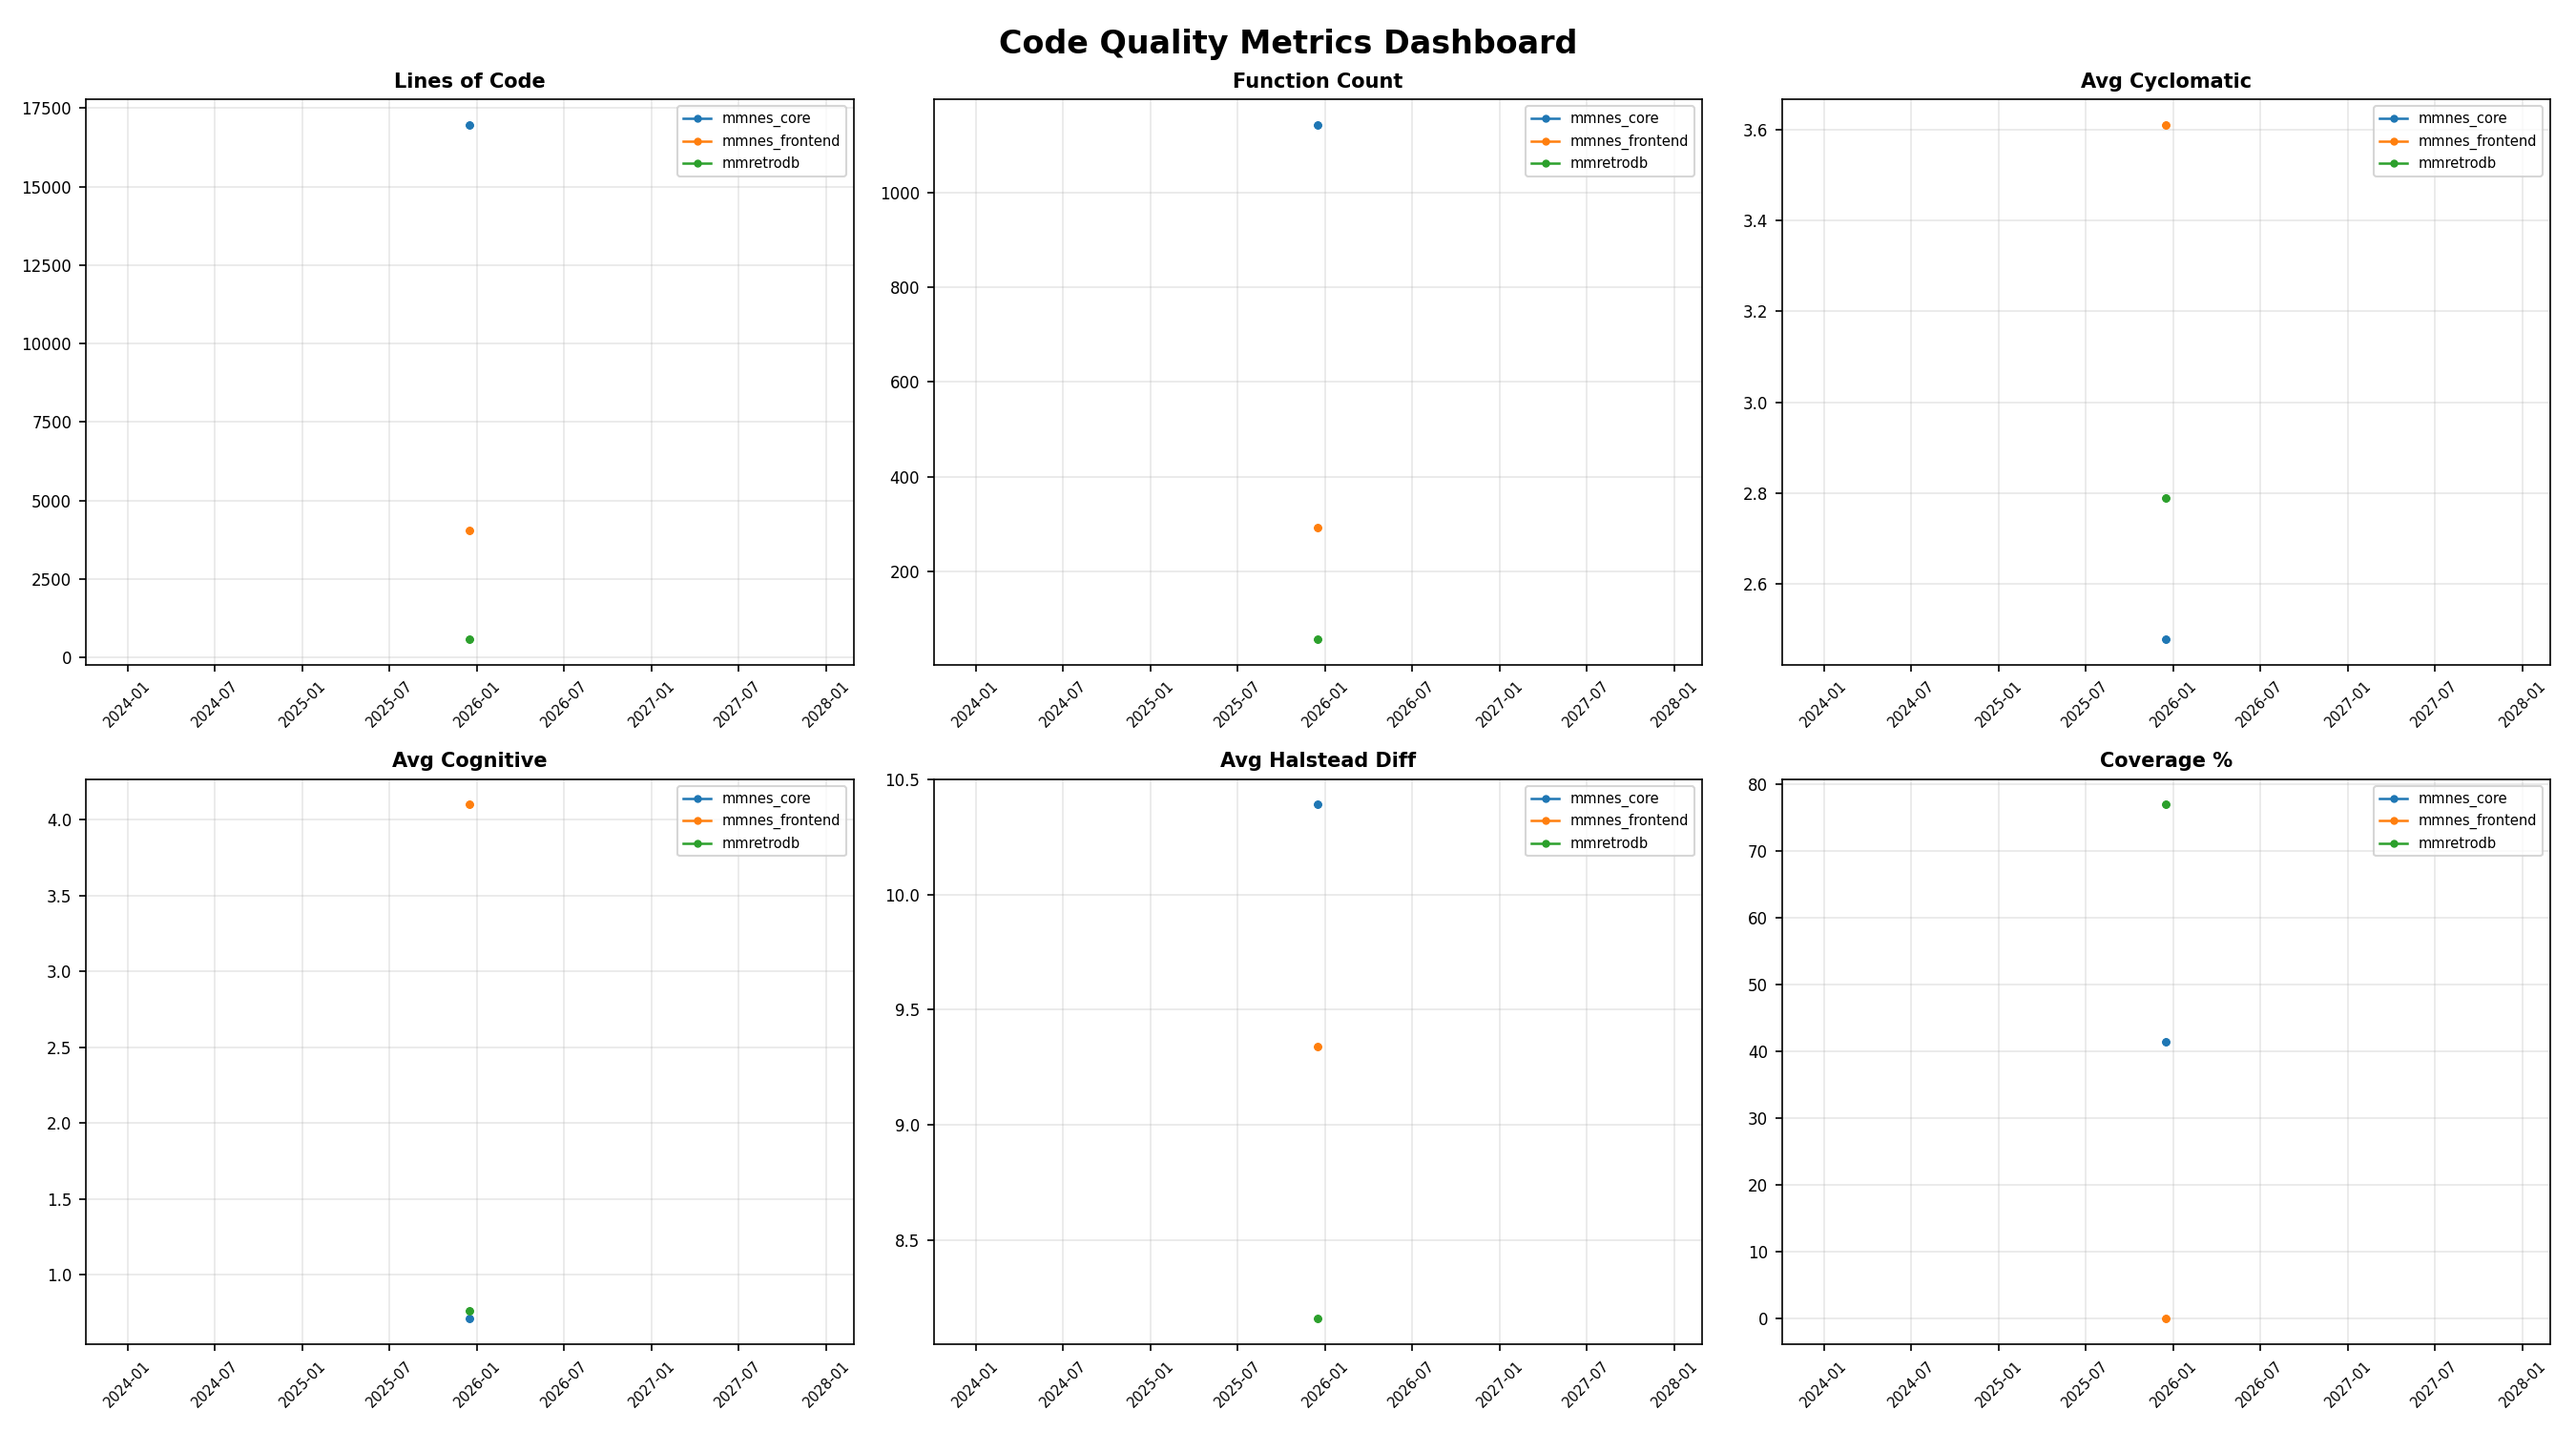
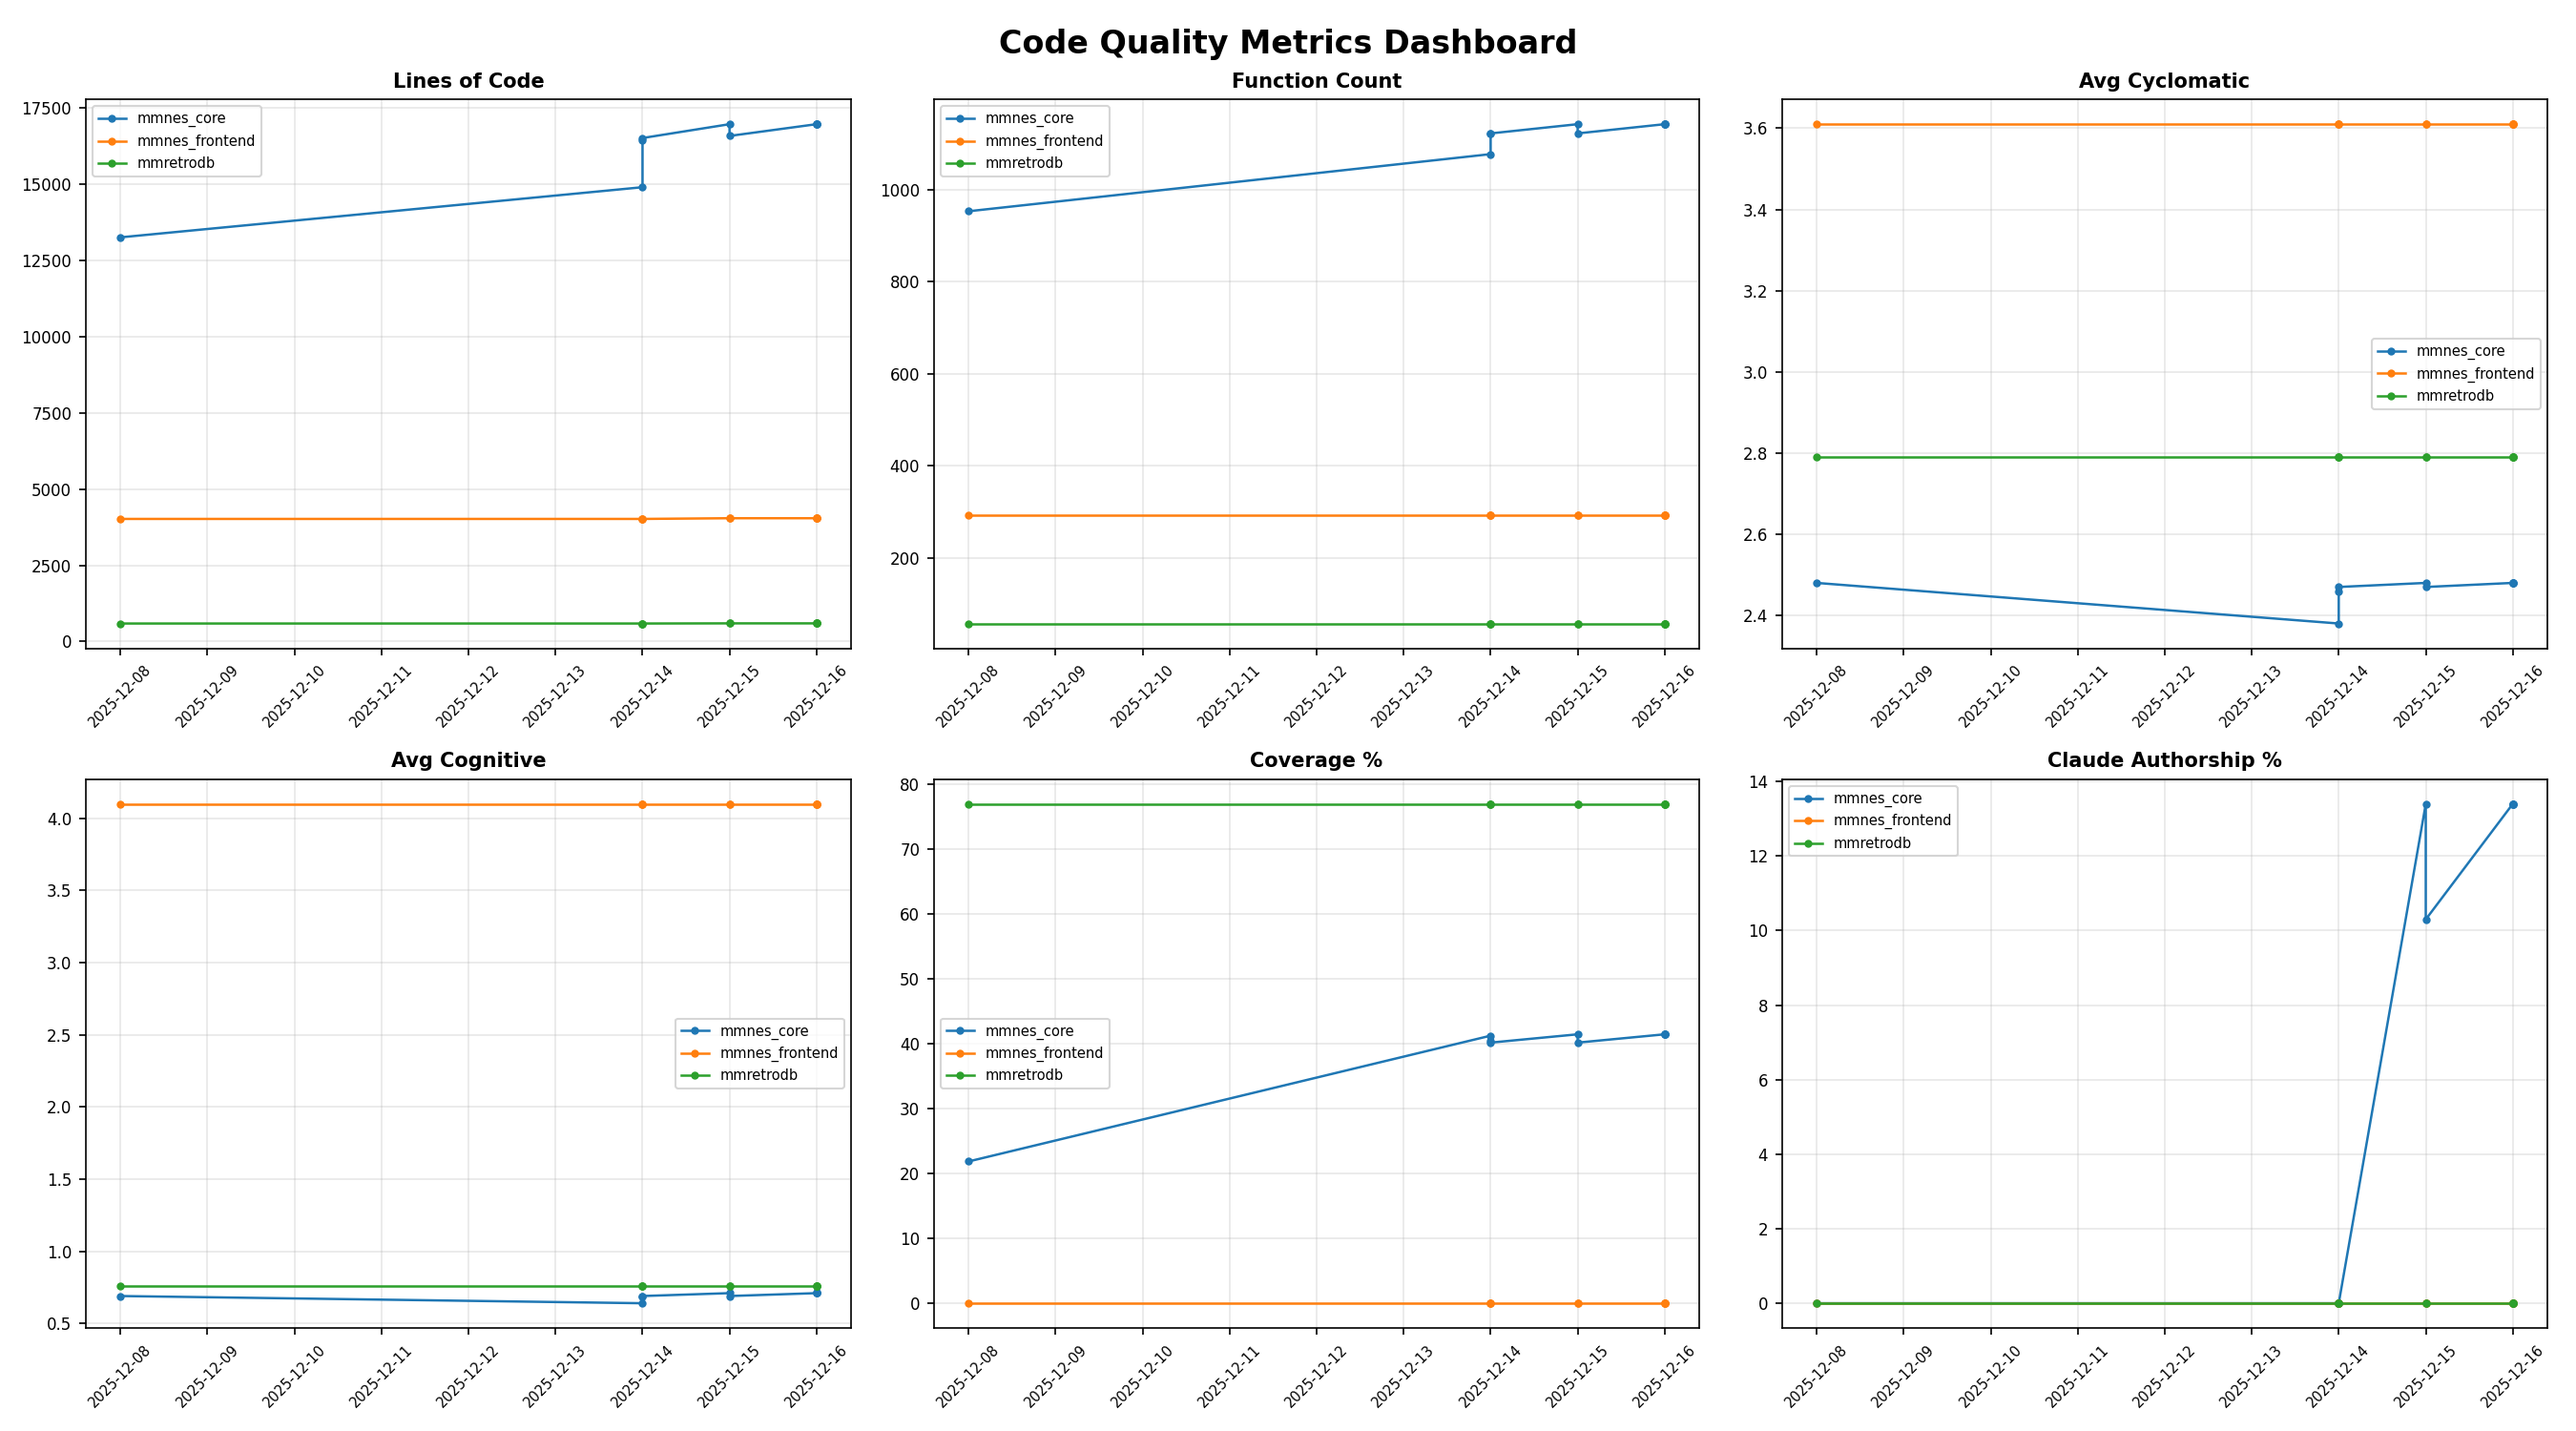
Add authorship tracking (Human % vs Claude %) to metrics
- Parses "// Authorship: Human X% | Claude Y%" headers from source files
- Calculates LOC-weighted authorship percentages per crate
- Adds human_percent/claude_percent columns to CSV
- Updates dashboard to show Claude Authorship % trend chart
- Updates METRICS_SUMMARY.md to show authorship breakdown

Regenerated historical metrics for last 10 commits showing:
- mmnes_core: 86.6% Human, 13.4% Claude (as of latest commit)
- mmnes_frontend: 100% Human (no Claude contributions yet)
- mmretrodb: 100% Human (no Claude contributions yet)

🤖 Generated with [Claude Code](https://claude.com/claude-code)

diff --git a/metrics/collect_metrics.py b/metrics/collect_metrics.py
@@ -67,6 +67,19 @@ class CrateMetrics:
     coverage_percent: float = 0.0
     covered_lines: int = 0
     total_lines: int = 0
+    # Authorship tracking (LOC-weighted)
+    human_loc: int = 0      # LOC attributed to human
+    claude_loc: int = 0     # LOC attributed to Claude
+
+    @property
+    def human_percent(self) -> float:
+        total = self.human_loc + self.claude_loc
+        return (self.human_loc / total * 100) if total > 0 else 100.0
+
+    @property
+    def claude_percent(self) -> float:
+        total = self.human_loc + self.claude_loc
+        return (self.claude_loc / total * 100) if total > 0 else 0.0
 
     @property
     def avg_cyclomatic(self) -> float:
@@ -116,13 +129,80 @@ def file_belongs_to_crate(file_path: str, crate_name: str) -> bool:
         normalized.endswith(f"/{crate_name}")       # Edge case: path ends with crate
     )
 
+
+import re
+
+def parse_authorship(file_path: Path) -> tuple:
+    """Parse authorship header from a source file.
+
+    Looks for pattern: // Authorship: Human X% | Claude Y%
+    Also supports: # Authorship: Human X% | Claude Y% (for Python files)
+
+    Returns (human_percent, claude_percent) or (100, 0) if no header found.
+    """
+    try:
+        with open(file_path, 'r', encoding='utf-8', errors='ignore') as f:
+            # Read first 10 lines to find authorship header
+            for _ in range(10):
+                line = f.readline()
+                if not line:
+                    break
+
+                # Match pattern: Authorship: Human X% | Claude Y%
+                match = re.search(
+                    r'Authorship:\s*Human\s+(\d+(?:\.\d+)?)\s*%\s*\|\s*Claude\s+(\d+(?:\.\d+)?)\s*%',
+                    line,
+                    re.IGNORECASE
+                )
+                if match:
+                    human = float(match.group(1))
+                    claude = float(match.group(2))
+                    return (human, claude)
+    except (IOError, OSError):
+        pass
+
+    # Default: assume 100% human if no header found
+    return (100.0, 0.0)
+
+
+def collect_authorship(workspace: Path, crate_name: str) -> tuple:
+    """Collect authorship stats for all source files in a crate.
+
+    Returns (total_human_loc, total_claude_loc) weighted by LOC.
+    """
+    crate_src = workspace / crate_name / "src"
+    if not crate_src.exists():
+        return (0, 0)
+
+    total_human_loc = 0
+    total_claude_loc = 0
+
+    for rs_file in crate_src.rglob("*.rs"):
+        # Count lines in file
+        try:
+            with open(rs_file, 'r', encoding='utf-8', errors='ignore') as f:
+                loc = sum(1 for line in f if line.strip())
+        except (IOError, OSError):
+            continue
+
+        # Get authorship percentages
+        human_pct, claude_pct = parse_authorship(rs_file)
+
+        # Weight by LOC
+        total_human_loc += int(loc * human_pct / 100)
+        total_claude_loc += int(loc * claude_pct / 100)
+
+    return (total_human_loc, total_claude_loc)
+
+
 # CSV column definitions
 CSV_FIELDNAMES = [
     "timestamp", "commit_date", "commit_hash", "commit_short", "branch", "crate_name",
     "loc_total", "loc_code", "loc_comments", "loc_blanks",
     "functions_count", "avg_cyclomatic", "max_cyclomatic",
     "avg_cognitive", "max_cognitive", "avg_halstead_diff", "max_halstead_diff",
-    "coverage_percent", "covered_lines", "total_lines"
+    "coverage_percent", "covered_lines", "total_lines",
+    "human_percent", "claude_percent"
 ]
 
 
@@ -510,6 +590,11 @@ def collect_all_metrics(workspace_root: Path, with_coverage: bool = False) -> Li
                 (cov["covered"] / cov["total"] * 100) if cov["total"] > 0 else 0.0
             )
 
+        # Collect authorship data
+        human_loc, claude_loc = collect_authorship(workspace_root, crate_name)
+        metrics.human_loc = human_loc
+        metrics.claude_loc = claude_loc
+
         all_metrics.append(metrics)
 
     return all_metrics
@@ -556,6 +641,8 @@ def write_csv(metrics_list: List[CrateMetrics], git_info: Dict[str, str]):
                     "coverage_percent": round(m.coverage_percent, 2),
                     "covered_lines": m.covered_lines,
                     "total_lines": m.total_lines,
+                    "human_percent": round(m.human_percent, 1),
+                    "claude_percent": round(m.claude_percent, 1),
                 })
         finally:
             unlock_file(f)
@@ -580,6 +667,7 @@ def print_summary(metrics_list: List[CrateMetrics]):
             print(f"  Coverage: {m.coverage_percent:.1f}% ({m.covered_lines}/{m.total_lines} lines)")
         else:
             print(f"  Coverage: N/A (not collected)")
+        print(f"  Authorship: Human {m.human_percent:.1f}% | Claude {m.claude_percent:.1f}%")
 
     print("\n" + "=" * 70)
 

diff --git a/metrics/plot_metrics.py b/metrics/plot_metrics.py
@@ -239,8 +239,8 @@ def plot_combined_dashboard(df: pd.DataFrame, output_path: Path):
         ("functions_count", "Function Count", axes[0, 1]),
         ("avg_cyclomatic", "Avg Cyclomatic", axes[0, 2]),
         ("avg_cognitive", "Avg Cognitive", axes[1, 0]),
-        ("avg_halstead_diff", "Avg Halstead Diff", axes[1, 1]),
-        ("coverage_percent", "Coverage %", axes[1, 2]),
+        ("coverage_percent", "Coverage %", axes[1, 1]),
+        ("claude_percent", "Claude Authorship %", axes[1, 2]),
     ]
 
     for metric_col, title, ax in plots:
@@ -295,22 +295,24 @@ def generate_latest_summary(df: pd.DataFrame, output_path: Path):
         f.write(f"**Latest commit:** `{commit}` on `{branch}`\n\n")
 
         f.write("## Per-Crate Metrics\n\n")
-        f.write("| Crate | LOC | Functions | Avg Cyclo | Max Cyclo | Avg Cog | Max Cog | Coverage |\n")
-        f.write("|-------|-----|-----------|-----------|-----------|---------|---------|----------|\n")
+        f.write("| Crate | LOC | Functions | Avg Cyclo | Coverage | Human % | Claude % |\n")
+        f.write("|-------|-----|-----------|-----------|----------|---------|----------|\n")
 
         for _, row in latest.iterrows():
             coverage_str = f"{row['coverage_percent']:.1f}%" if row['total_lines'] > 0 else "N/A"
+            human_pct = row.get('human_percent', 100.0)
+            claude_pct = row.get('claude_percent', 0.0)
             f.write(
                 f"| {row['crate_name']} | {row['loc_code']} | {row['functions_count']} | "
-                f"{row['avg_cyclomatic']:.1f} | {row['max_cyclomatic']:.0f} | "
-                f"{row['avg_cognitive']:.1f} | {row['max_cognitive']:.0f} | {coverage_str} |\n"
+                f"{row['avg_cyclomatic']:.1f} | {coverage_str} | "
+                f"{human_pct:.1f}% | {claude_pct:.1f}% |\n"
             )
 
         f.write("\n## Definitions\n\n")
         f.write("- **LOC**: Lines of code (excluding comments and blanks)\n")
         f.write("- **Cyclomatic**: Number of independent paths through the code\n")
-        f.write("- **Cognitive**: Measure of how difficult code is to understand\n")
         f.write("- **Coverage**: Percentage of code lines covered by tests\n")
+        f.write("- **Human/Claude %**: Authorship attribution based on file headers\n")
 
     print(f"  Saved: {output_path}")
 

diff --git a/metrics/data/METRICS_SUMMARY.md b/metrics/data/METRICS_SUMMARY.md
@@ -1,20 +1,20 @@
 # Code Quality Metrics Summary
 
-*Generated: 2025-12-16 11:04:58*
+*Generated: 2025-12-16 11:46:03*
 
-**Latest commit:** `1f8f935` on `HEAD`
+**Latest commit:** `c284546` on `HEAD`
 
 ## Per-Crate Metrics
 
-| Crate | LOC | Functions | Avg Cyclo | Max Cyclo | Avg Cog | Max Cog | Coverage |
-|-------|-----|-----------|-----------|-----------|---------|---------|----------|
-| mmnes_core | 16962 | 1142 | 2.5 | 48 | 0.7 | 36 | 41.5% |
-| mmnes_frontend | 4043 | 293 | 3.6 | 43 | 4.1 | 77 | 0.0% |
-| mmretrodb | 596 | 58 | 2.8 | 19 | 0.8 | 8 | 77.0% |
+| Crate | LOC | Functions | Avg Cyclo | Coverage | Human % | Claude % |
+|-------|-----|-----------|-----------|----------|---------|----------|
+| mmnes_core | 16962 | 1142 | 2.5 | 41.5% | 86.6% | 13.4% |
+| mmnes_frontend | 4043 | 293 | 3.6 | 0.0% | 100.0% | 0.0% |
+| mmretrodb | 596 | 58 | 2.8 | 77.0% | 100.0% | 0.0% |
 
 ## Definitions
 
 - **LOC**: Lines of code (excluding comments and blanks)
 - **Cyclomatic**: Number of independent paths through the code
-- **Cognitive**: Measure of how difficult code is to understand
 - **Coverage**: Percentage of code lines covered by tests
+- **Human/Claude %**: Authorship attribution based on file headers
